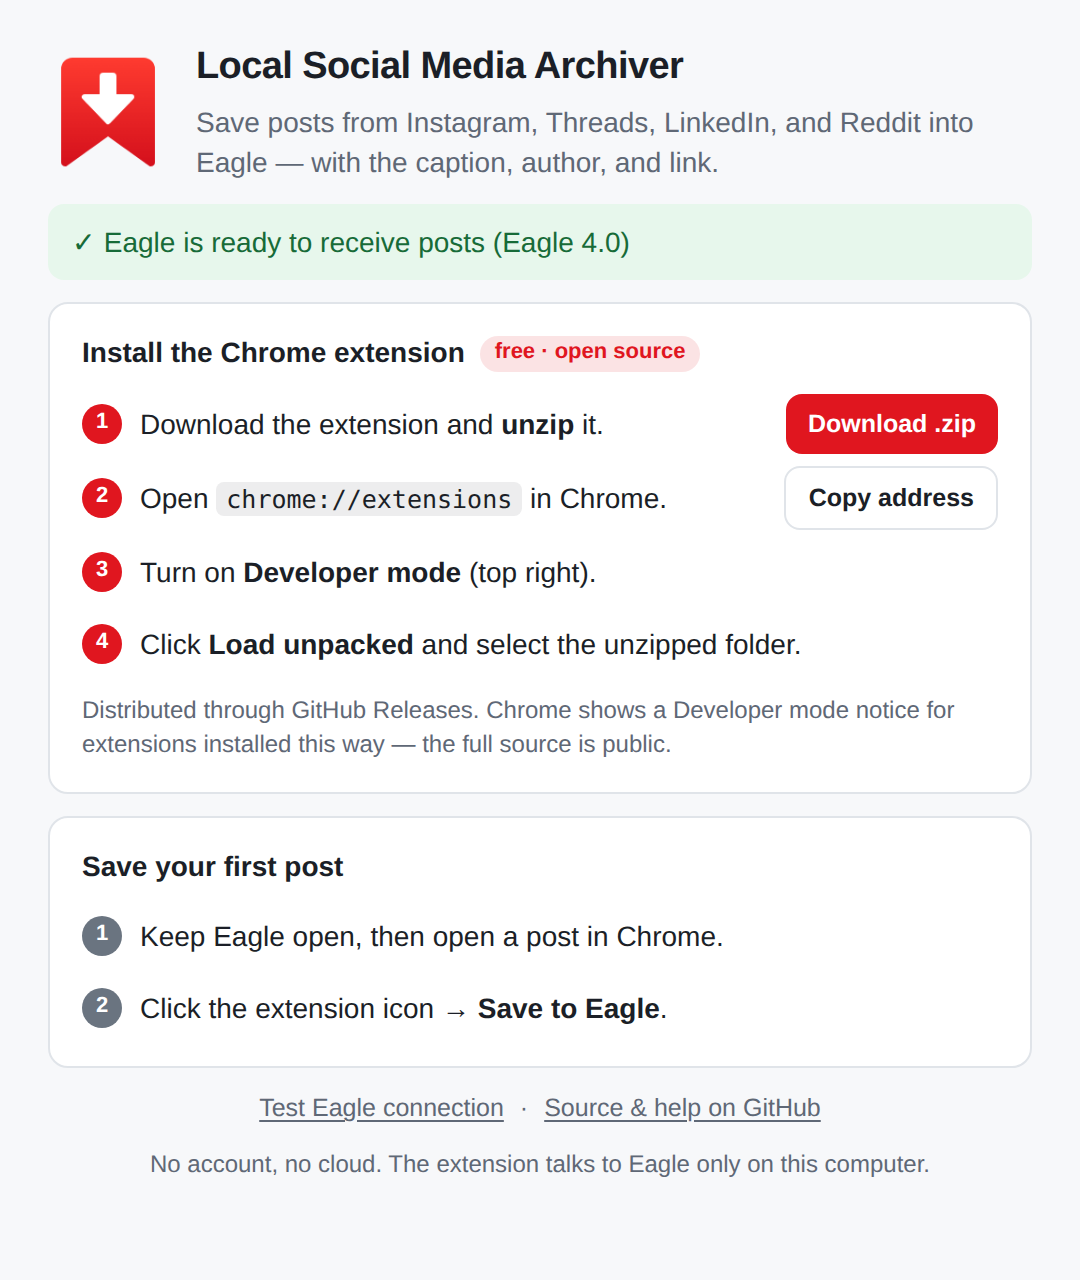
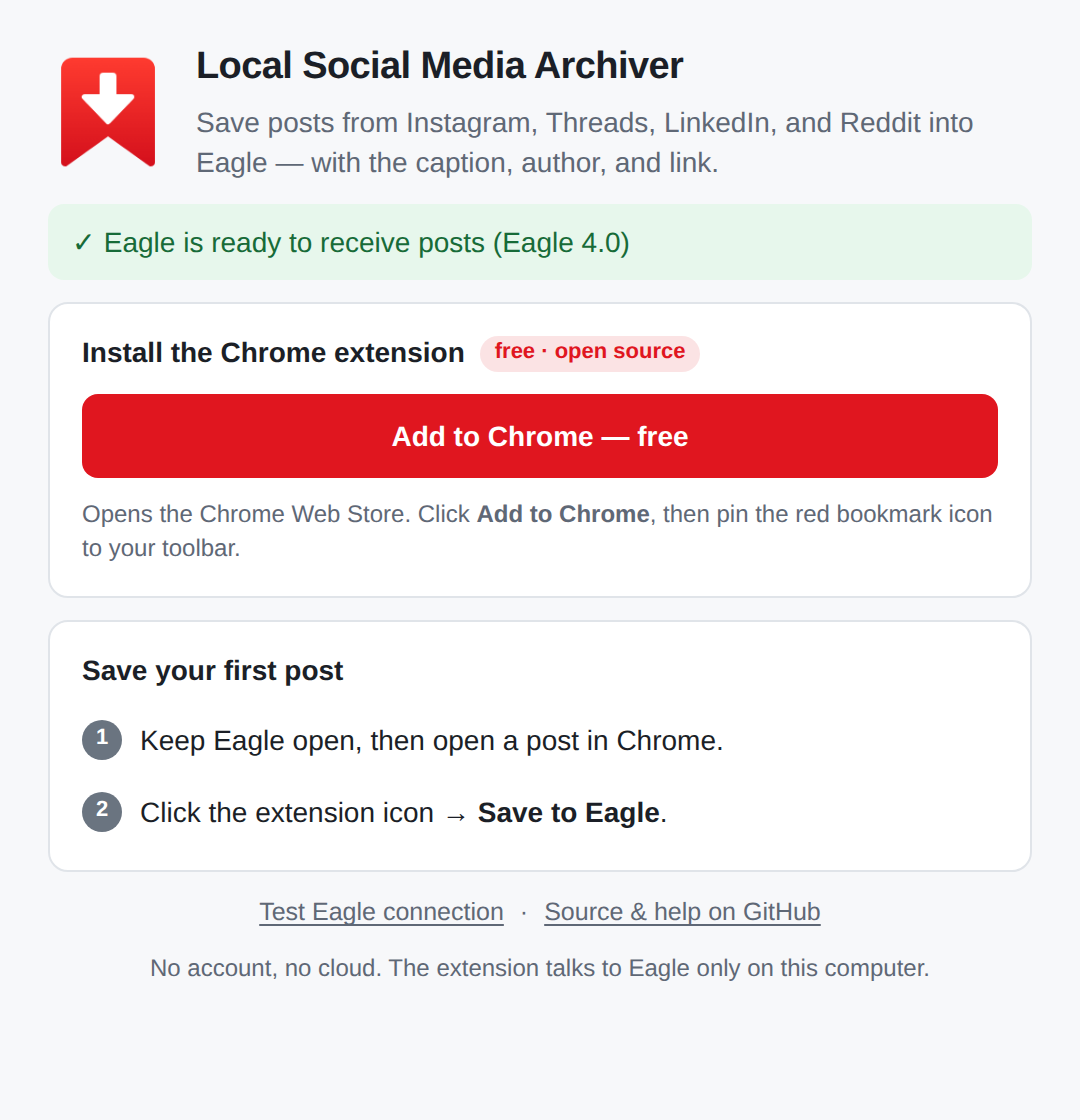
Point Eagle Companion and README at the Chrome Web Store listing
The extension is published, so the companion shows a single
"Add to Chrome" button instead of the Load unpacked walkthrough, and
the README leads with the store link (manual install stays available
in a collapsed section). Companion window shrinks to fit; marketplace
screenshots refreshed.

Claude-Session: https://claude.ai/code/session_01BWzGfyfB5TgAkvLPHxc4Ut

Changed region(s): [[0.0611, 0.1875, 0.9472, 0.9375], [0.1833, 0.0312, 0.9167, 0.1562], [0.0611, 0.0312, 0.1528, 0.1562]]

diff --git a/eagle-companion/index.html b/eagle-companion/index.html
@@ -19,8 +19,9 @@
       <output id="status" class="status" aria-live="polite">Checking local Eagle connection…</output>
 
       <section id="store-install" class="card" hidden>
-        <h2>Install the Chrome extension</h2>
-        <button id="open-store" class="primary">Open Chrome Web Store</button>
+        <h2>Install the Chrome extension <span class="badge">free · open source</span></h2>
+        <button id="open-store" class="primary wide">Add to Chrome — free</button>
+        <p class="note">Opens the Chrome Web Store. Click <strong>Add to Chrome</strong>, then pin the red bookmark icon to your toolbar.</p>
       </section>
 
       <section id="manual-install" class="card">

diff --git a/eagle-companion/style.css b/eagle-companion/style.css
@@ -18,6 +18,7 @@ h2 { display: flex; align-items: center; gap: 8px; margin: 0 0 10px; font-size: 
 code { padding: 1px 5px; border-radius: 4px; background: color-mix(in srgb, var(--text) 8%, transparent); font-size: 12.5px; }
 .note { margin: 10px 0 0; color: var(--muted); font-size: 12px; }
 button { border: 0; border-radius: 8px; padding: 9px 14px; font: inherit; font-weight: 650; cursor: pointer; }
+button.wide { width: 100%; padding: 11px 14px; }
 button.small { flex: none; padding: 6px 11px; font-size: 12.5px; }
 .primary { background: var(--accent); color: #fff; }
 .primary:hover { background: var(--accent-hover); }

diff --git a/eagle-companion/js/config.js b/eagle-companion/js/config.js
@@ -5,5 +5,5 @@
 globalThis.LSMA_CONFIG = {
   repositoryUrl: "https://github.com/d-degtyar/Local-Social-Media-Archiver",
   extensionZipUrl: "https://github.com/d-degtyar/Local-Social-Media-Archiver/releases/latest/download/local-social-media-archiver-chrome.zip",
-  chromeWebStoreUrl: ""
+  chromeWebStoreUrl: "https://chromewebstore.google.com/detail/local-social-media-archiv/hbjcghkjdbmphmbgkjkhncmihcbhenjj"
 };

diff --git a/README.md b/README.md
@@ -20,11 +20,20 @@ Save visual references from the web directly to [Eagle](https://eagle.cool/) or 
 
 ### Chrome extension
 
+**[Install from the Chrome Web Store](https://chromewebstore.google.com/detail/local-social-media-archiv/hbjcghkjdbmphmbgkjkhncmihcbhenjj)**
+
+1. Click **Add to Chrome** on the store page and pin the extension to your toolbar.
+2. Open a supported post, wait for its media to load, then click the extension icon.
+3. Choose **Save to Eagle** or **Save to Downloads**.
+
+<details>
+<summary>Manual install from GitHub Releases</summary>
+
 1. Download the latest `local-social-media-archiver-chrome.zip` from [Releases](../../releases), then unpack it.
 2. Open `chrome://extensions` in Chrome and turn on **Developer mode**.
 3. Click **Load unpacked** and select the unpacked folder.
-4. Open a supported post, wait for its media to load, then click the extension icon.
-5. Choose **Save to Eagle** or **Save to Downloads**.
+
+</details>
 
 For Instagram Reels and LinkedIn video, play the video for a few seconds before saving so the browser has loaded the media stream.
 

diff --git a/docs/eagle-marketplace.md b/docs/eagle-marketplace.md
@@ -21,7 +21,7 @@ This plugin is the setup companion: it checks that Eagle is ready to receive pos
 
 Private by design: no account and no server. The extension talks to Eagle only through its local API on your computer.
 
-The extension is distributed through GitHub Releases and installed with Chrome's "Load unpacked" option; the plugin shows each step.
+Install the extension free from the Chrome Web Store: https://chromewebstore.google.com/detail/local-social-media-archiv/hbjcghkjdbmphmbgkjkhncmihcbhenjj
 
 **Support contact:** https://github.com/d-degtyar/Local-Social-Media-Archiver/issues
 

diff --git a/docs/chrome-web-store.md b/docs/chrome-web-store.md
@@ -86,5 +86,7 @@ Save the media from the post in the current tab (images, carousels, videos, and 
 
 ## After approval
 
+Published: https://chromewebstore.google.com/detail/local-social-media-archiv/hbjcghkjdbmphmbgkjkhncmihcbhenjj
+
 1. Put the store URL into `chromeWebStoreUrl` in `eagle-companion/js/config.js`. The companion then shows a single install button in place of the Load unpacked steps.
 2. Add the store link to the Quick start section in `README.md`.

diff --git a/CHANGELOG.md b/CHANGELOG.md
@@ -1,5 +1,9 @@
 # Changelog
 
+## Eagle Companion 0.2.1
+
+- One-click install from the Chrome Web Store; the Load unpacked steps are no longer shown.
+
 ## 0.2.0 — Unreleased
 
 - Instagram Stories.
